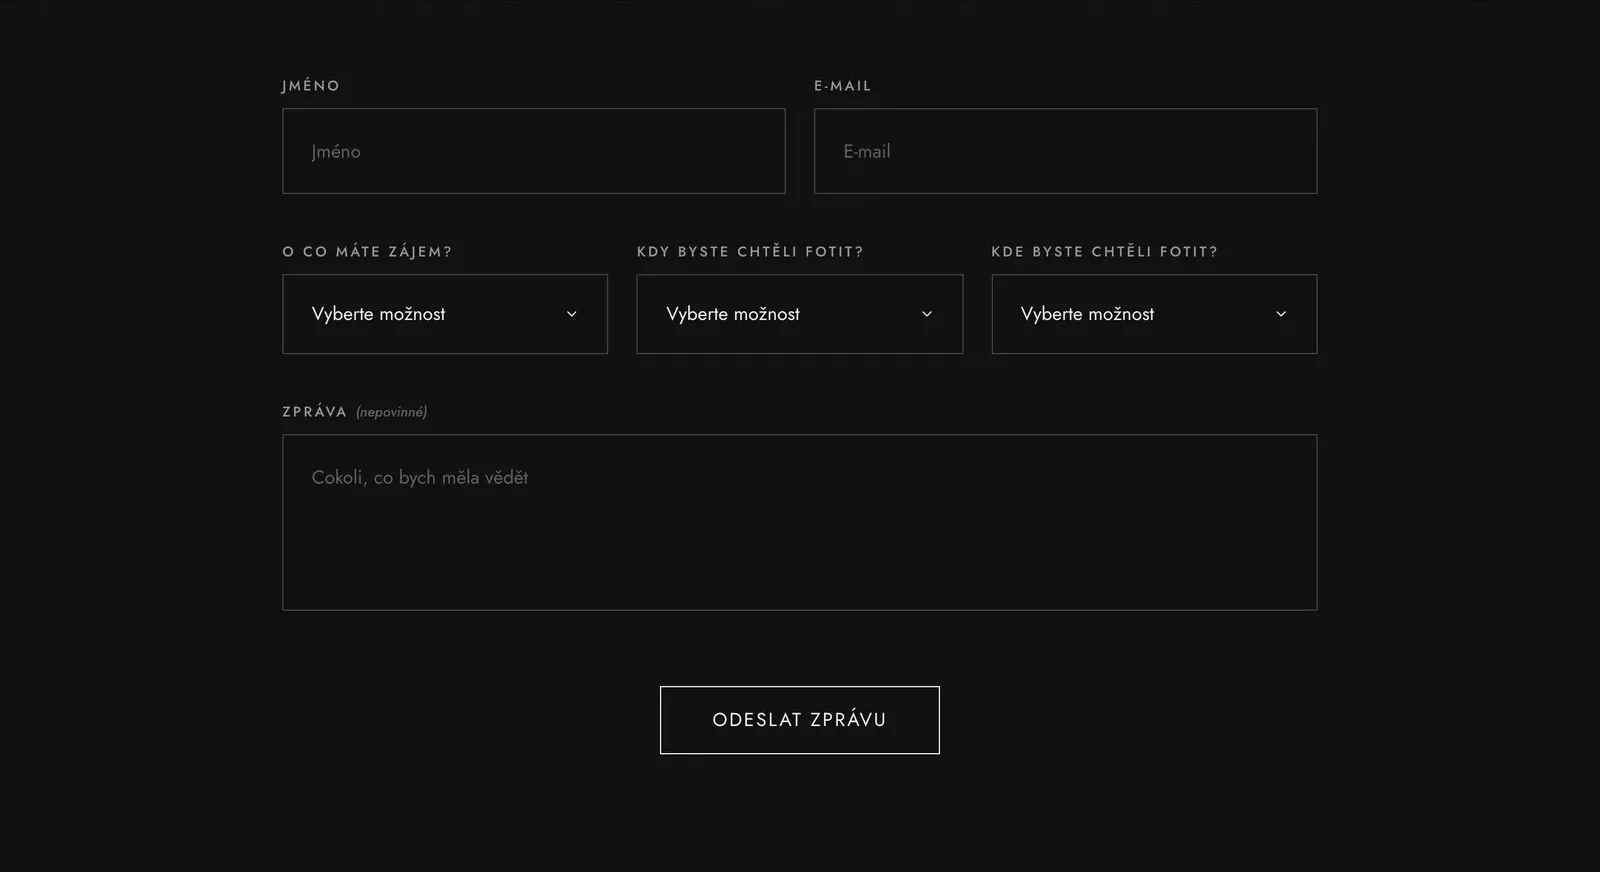
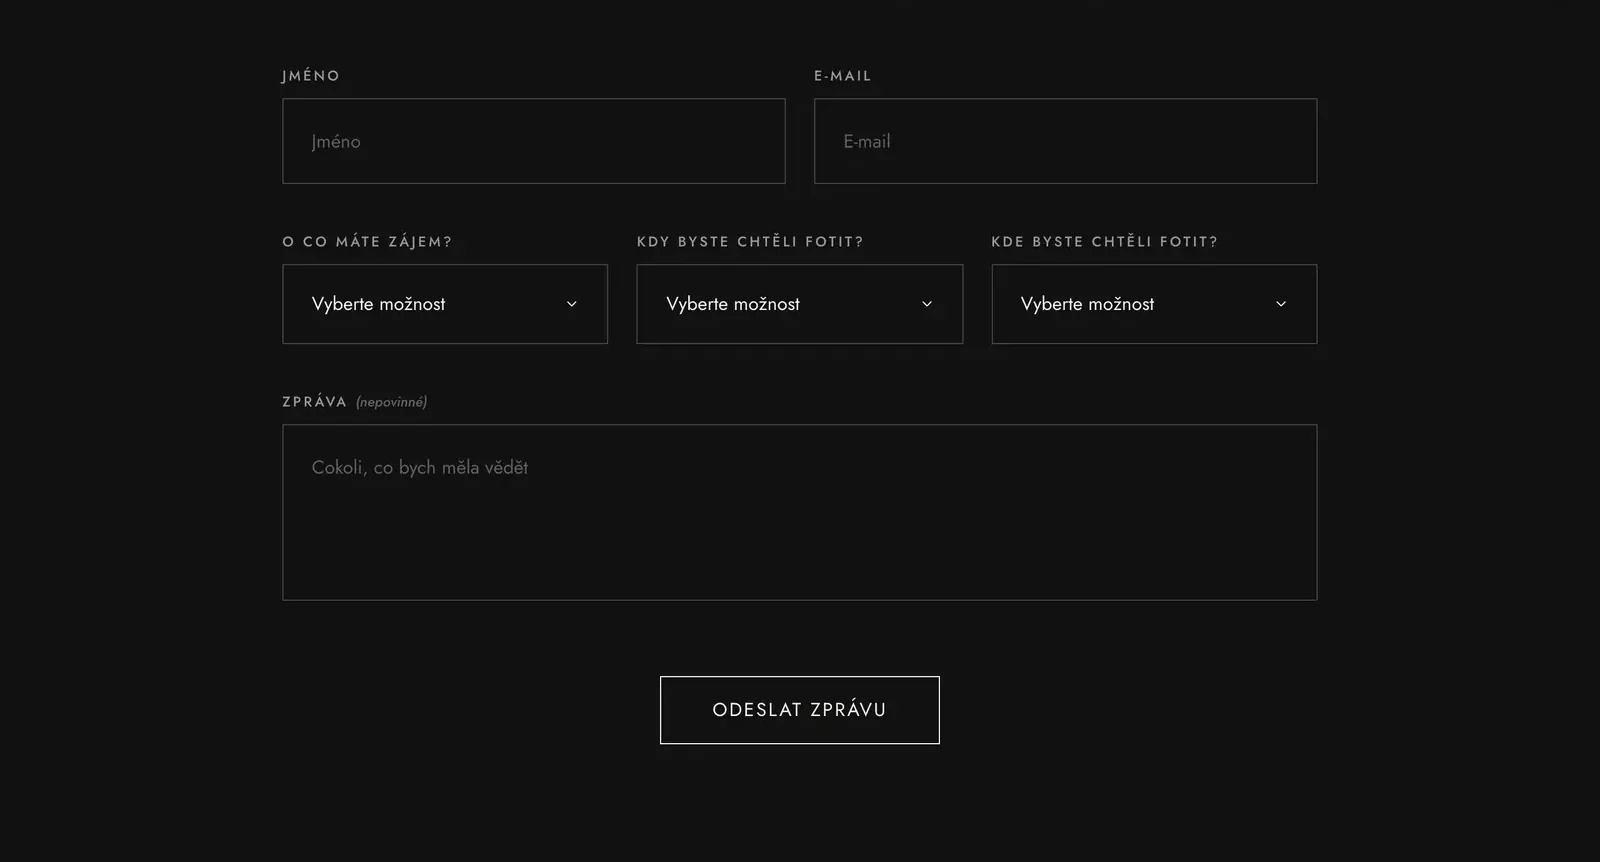
innaguba case: form screenshot trimmed at the top, before/after at the same height

diff --git a/work/innaguba.html b/work/innaguba.html
@@ -13,7 +13,7 @@
 <link rel="icon" href="../assets/img/favicon-32.png" sizes="32x32" type="image/png">
 <link rel="apple-touch-icon" href="../assets/img/apple-touch-icon.png">
 <link rel="stylesheet" href="../assets/css/main.css?v=24">
-<link rel="stylesheet" href="../assets/css/case.css?v=9">
+<link rel="stylesheet" href="../assets/css/case.css?v=10">
 <script>document.documentElement.classList.add('js')</script>
 </head>
 <body class="case-innaguba">
@@ -191,9 +191,9 @@
       <p>The interviews explained why. A family shoot is intimate. Before committing, a mother wants to talk about the child's age, the family's schedule and where to shoot. Picking a slot and simply showing up skips the part that builds trust.</p>
       <p>So the calendar became a short inquiry form: what, when, where, and an optional message. Undecided parents get their own path, "I don't know yet, I need advice", which hides the date and location fields and turns the form into a simple question.</p>
     </div>
-    <div class="fig-grid">
+    <div class="fig-grid same">
       <figure class="figure"><img src="../assets/img/innaguba/old-calendar.webp" width="1280" height="640" alt="Old website call to action: book a date directly in the calendar" loading="lazy"><figcaption>Before: "Book a date directly in the calendar"</figcaption></figure>
-      <figure class="figure"><img src="../assets/img/innaguba/new-form.webp" width="1600" height="872" alt="New inquiry form with what, when and where fields" loading="lazy"><figcaption>After: a short inquiry that starts a conversation</figcaption></figure>
+      <figure class="figure"><img src="../assets/img/innaguba/new-form.webp" width="1600" height="862" alt="New inquiry form with what, when and where fields" loading="lazy"><figcaption>After: a short inquiry that starts a conversation</figcaption></figure>
     </div>
     <p class="callout">Usability testing showed the steps were clear. Research and real data showed parents didn't want those steps.</p>
   </div>

diff --git a/work/topenivcajku.html b/work/topenivcajku.html
@@ -13,7 +13,7 @@
 <link rel="icon" href="../assets/img/favicon-32.png" sizes="32x32" type="image/png">
 <link rel="apple-touch-icon" href="../assets/img/apple-touch-icon.png">
 <link rel="stylesheet" href="../assets/css/main.css?v=24">
-<link rel="stylesheet" href="../assets/css/case.css?v=9">
+<link rel="stylesheet" href="../assets/css/case.css?v=10">
 <script>document.documentElement.classList.add('js')</script>
 </head>
 <body class="case-topenivcajku">

diff --git a/work/herb-farm.html b/work/herb-farm.html
@@ -13,7 +13,7 @@
 <link rel="icon" href="../assets/img/favicon-32.png" sizes="32x32" type="image/png">
 <link rel="apple-touch-icon" href="../assets/img/apple-touch-icon.png">
 <link rel="stylesheet" href="../assets/css/main.css?v=24">
-<link rel="stylesheet" href="../assets/css/case.css?v=9">
+<link rel="stylesheet" href="../assets/css/case.css?v=10">
 <script>document.documentElement.classList.add('js')</script>
 </head>
 <body class="case-herb-farm">

diff --git a/work/loukal.html b/work/loukal.html
@@ -13,7 +13,7 @@
 <link rel="icon" href="../assets/img/favicon-32.png" sizes="32x32" type="image/png">
 <link rel="apple-touch-icon" href="../assets/img/apple-touch-icon.png">
 <link rel="stylesheet" href="../assets/css/main.css?v=24">
-<link rel="stylesheet" href="../assets/css/case.css?v=9">
+<link rel="stylesheet" href="../assets/css/case.css?v=10">
 <script>document.documentElement.classList.add('js')</script>
 </head>
 <body class="case-loukal">

diff --git a/assets/css/case.css b/assets/css/case.css
@@ -139,3 +139,5 @@
 /* Photos and screenshots stand on their own: no coloured frame, border or box around them */
 .figure img,.figure video{border:0;background:none}
 .cs-cover{padding:0;background:none;border:0}
+/* two screenshots side by side at the same height */
+.fig-grid.same img{aspect-ratio:1.9;object-fit:cover;object-position:center top}
